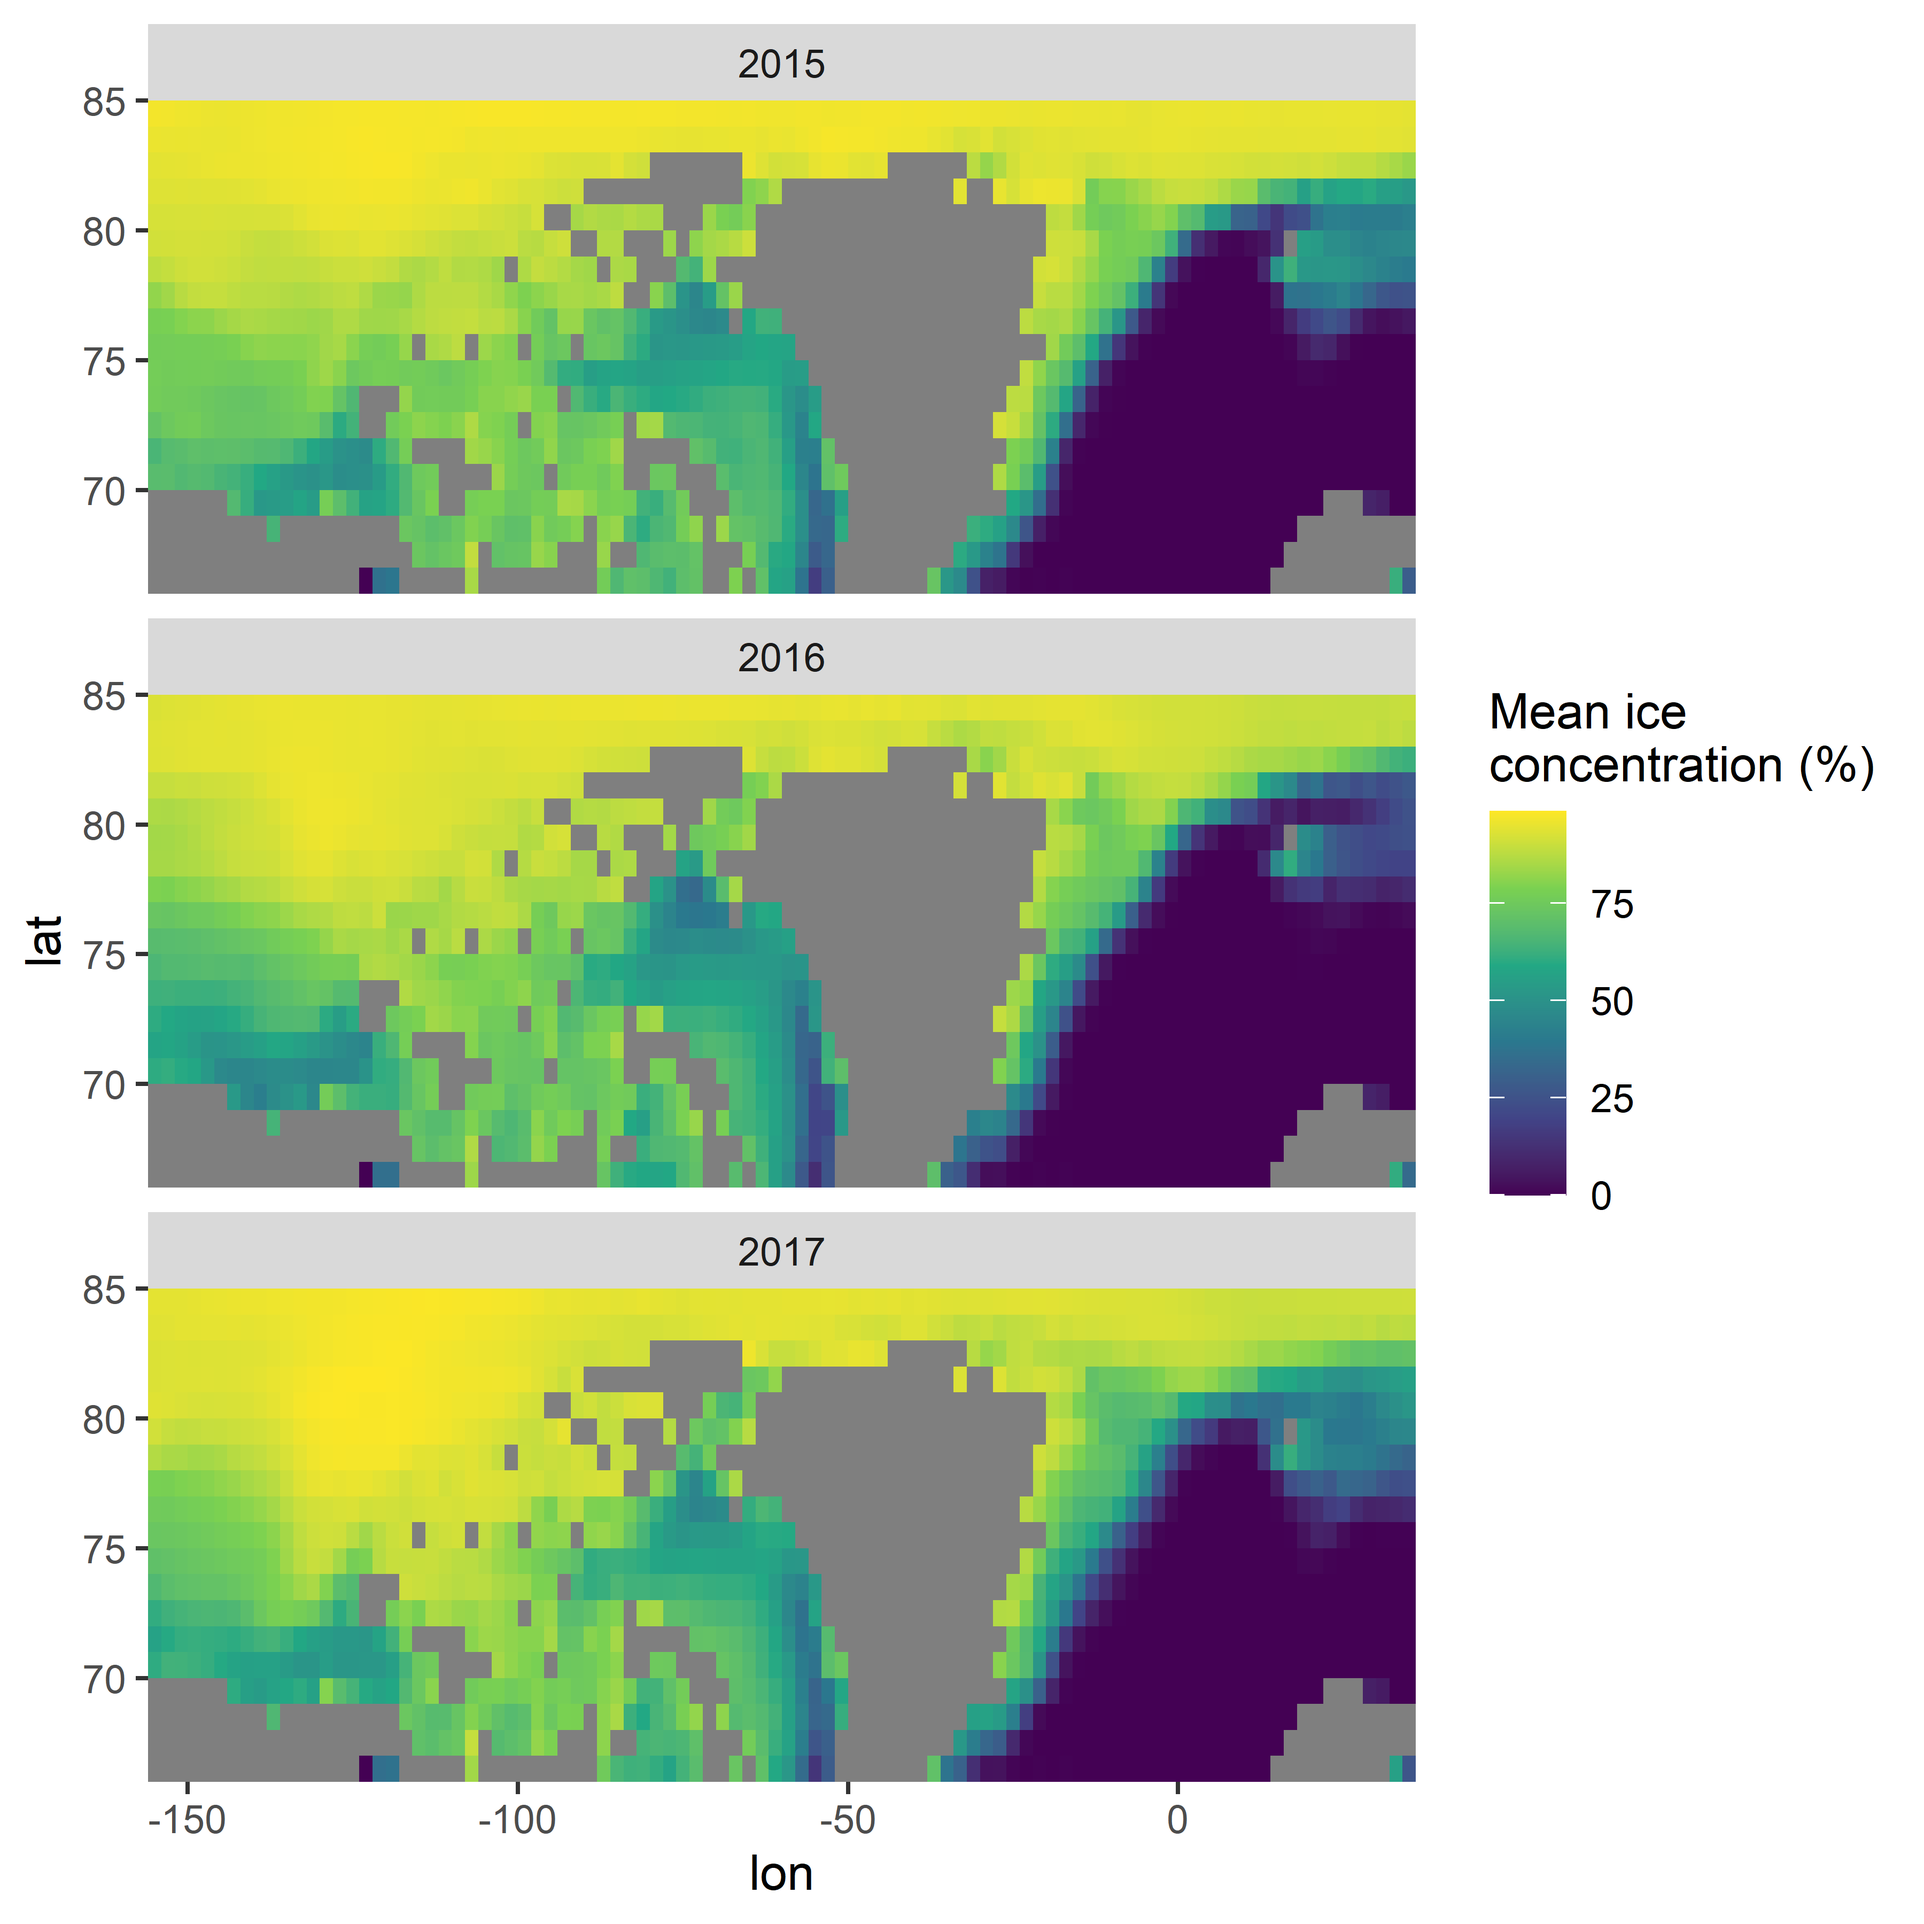
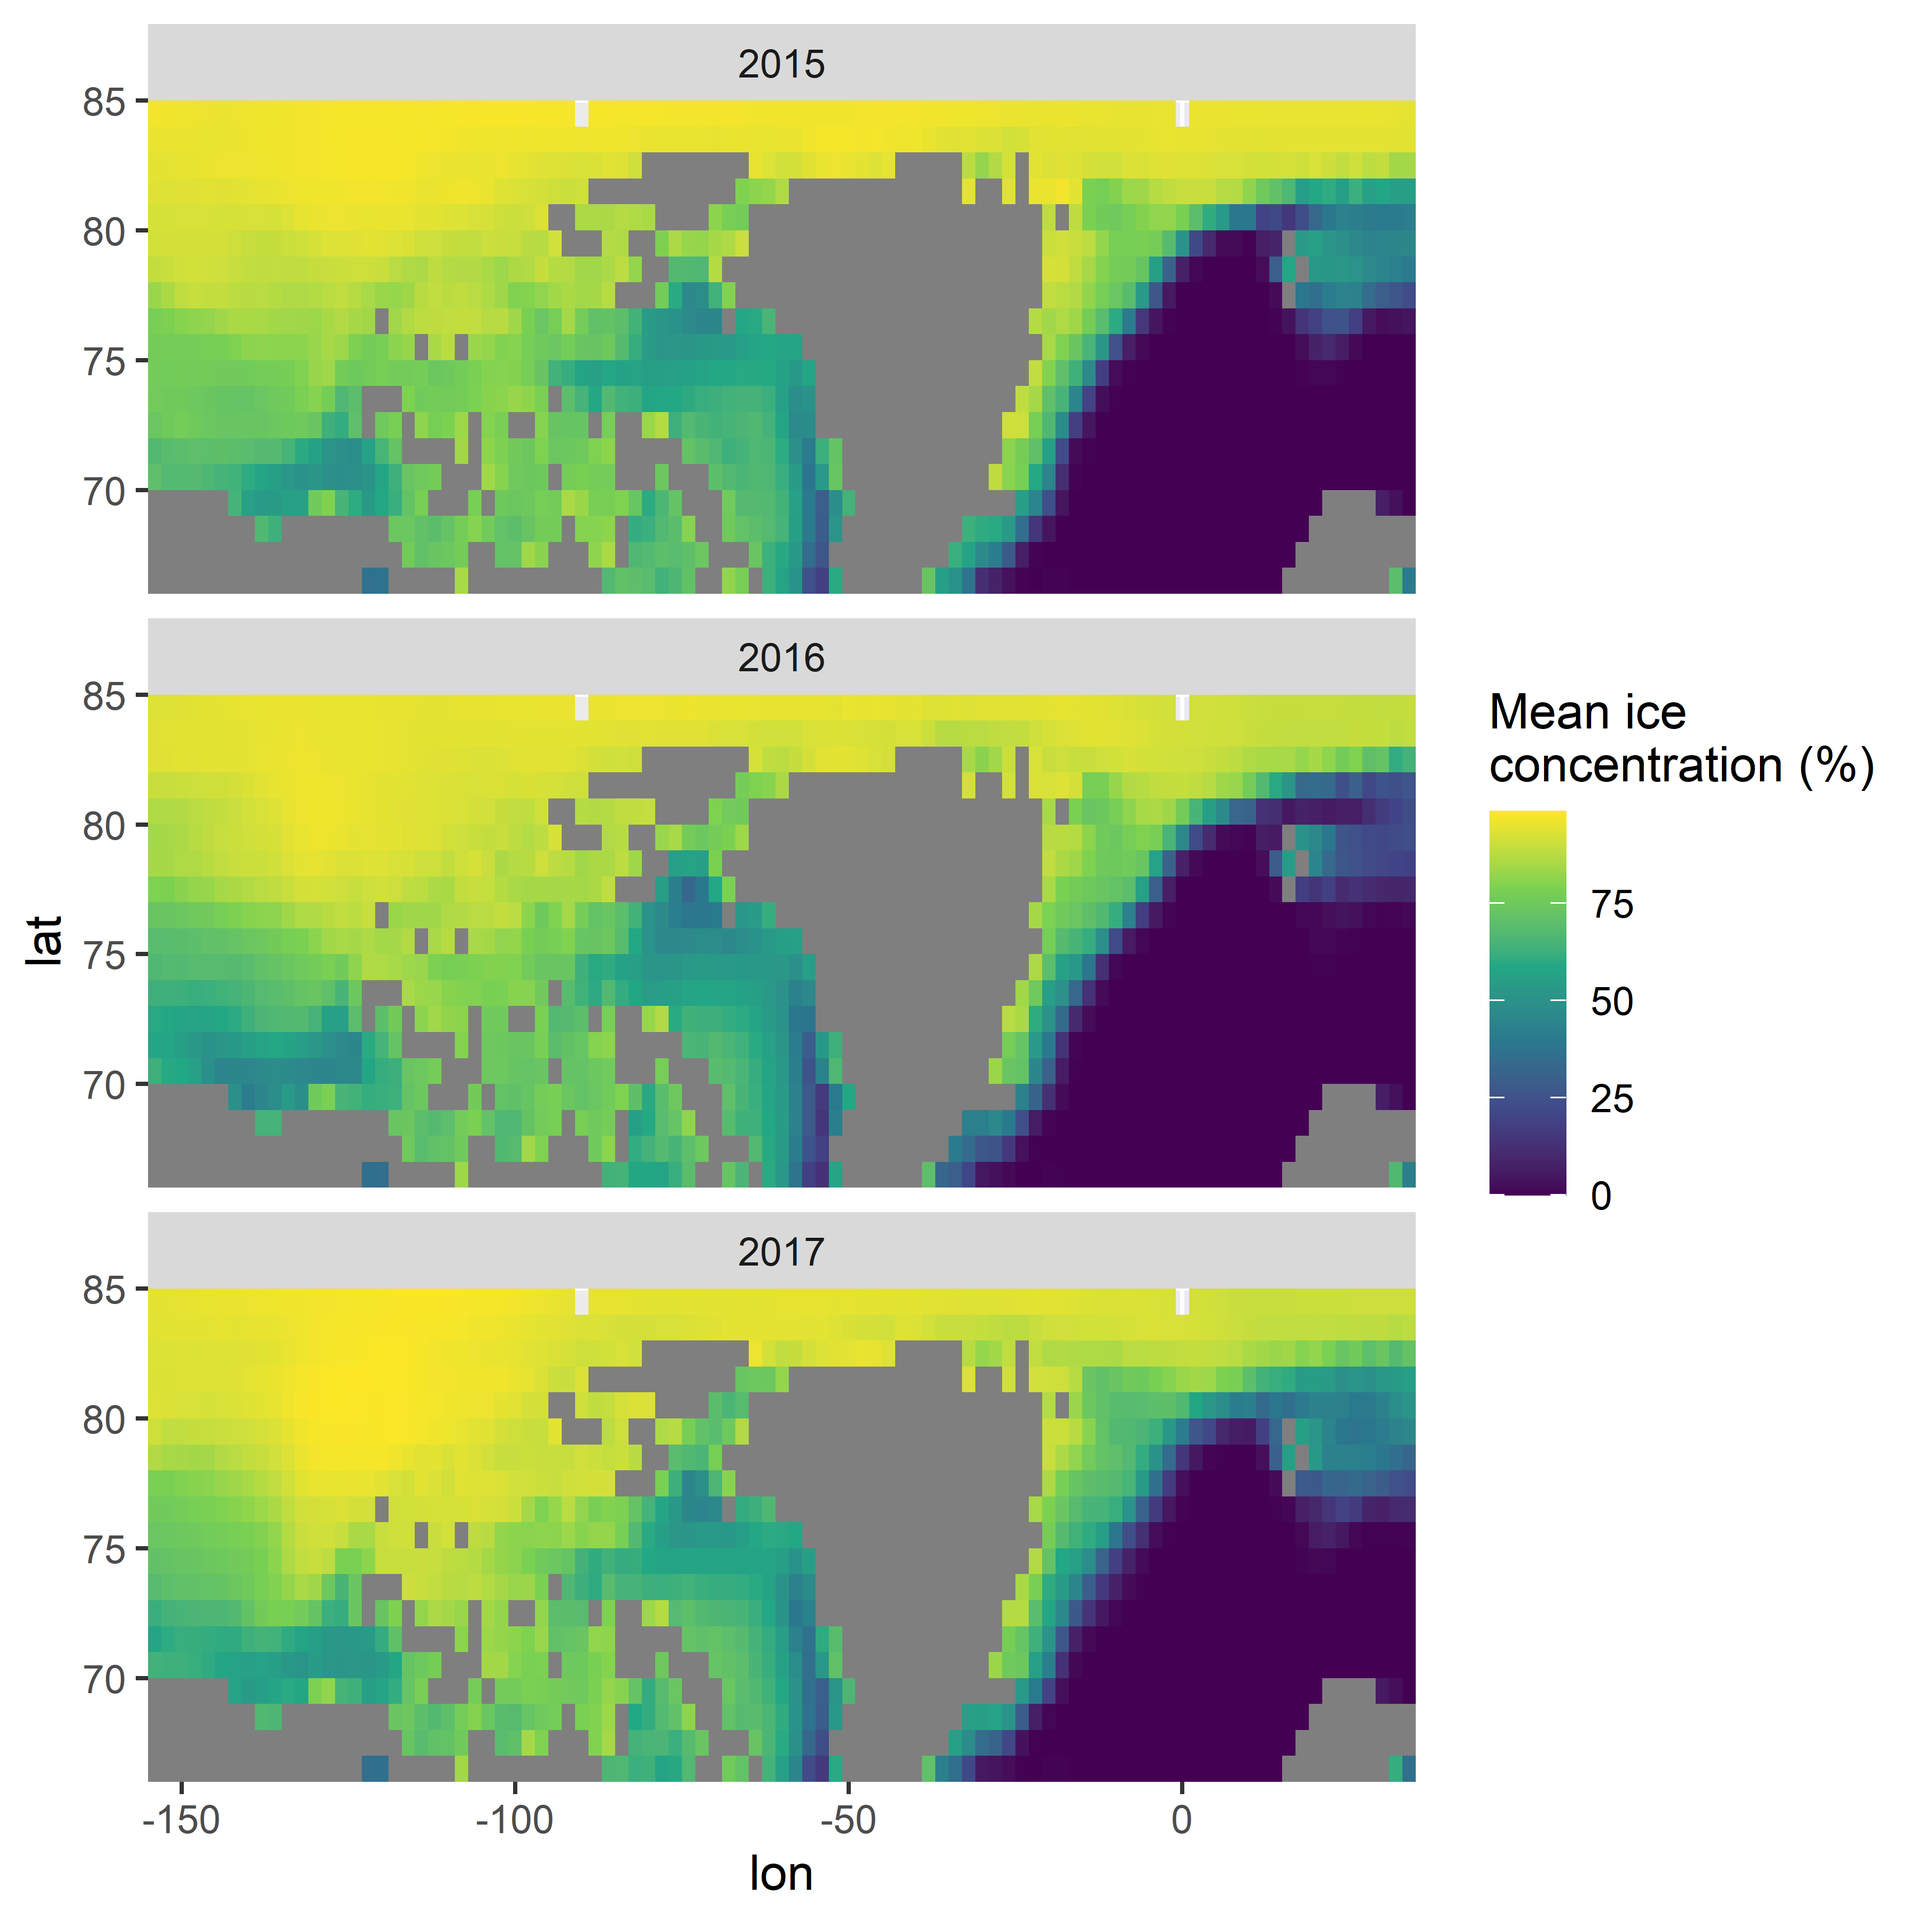
Corrected the extents of the raster to fit with rest of the data (acoustic and CTD).

diff --git a/PanArctic_DSL_remote_sensing.md b/PanArctic_DSL_remote_sensing.md
@@ -1,7 +1,7 @@
 PanArctic DSL - Remote sensing
 ================
 [Pierre Priou](mailto:pierre.priou@mi.mun.ca)
-2022/02/02 at 13:46
+2022/02/02 at 18:38
 
 # Package loading
 
@@ -28,8 +28,8 @@ anomalies (2 deg longitude \* 1 deg latitude).
 
 ``` r
 # Define projections: latlon (acoustic and CTD data), and laea (sea ice data)
-arctic_latlon <- raster(extent(-180,180,0,90), crs = "+init=epsg:4326", res = c(2, 1))
-arctic_laea <- raster(extent(-5400,5400,-5400,5400), crs = "+init=epsg:6931", res = c(25, 25))
+arctic_latlon <- raster(extent(-155, 35, 66, 85), crs = "+init=epsg:4326", res = c(2, 1))
+arctic_laea <- raster(extent(-5400, 5400, -5400, 5400), crs = "+init=epsg:6931", res = c(25, 25))
 # Date range of interest
 dates <- seq(ymd("2014-01-01"), ymd("2015-12-31"), 1)
 # Download data
@@ -60,8 +60,7 @@ for (d in dates) {
                         verbose = F,
                         path = "data/remote_sensing/sea_ice/tmp") %>%
     unzip(exdir = "data/remote_sensing/sea_ice/tmp") %>%  # Unzip file
-    tidync() # Read sea ice data
-  # tmp_raw <- tidync("data/remote_sensing/ice_conc_nh_ease2-250_icdr-v2p0_201703091200.nc")
+    tidync() 
   tmp_coord <- tmp_raw %>% # Extract latlon and laea coordinates
     activate("D2,D3") %>%
     hyper_tibble()
@@ -80,7 +79,6 @@ for (d in dates) {
                                            algorithm_se = tmp_seaice$algorithm_standard_error)) %>%
     rasterize(., arctic_latlon, fun = mean, na.rm = T) %>% # Rasterize data in latlon
     dropLayer(1) %>% # Remove ID layer
-    crop(., y = extent(-155, 35, 66, 85)) %>% # Crop raster to areas of interest
     rasterToPoints() %>% # Convert raster to data frame
     as.data.frame() %>%
     rename(lon = x, lat = y) %>% # Rename variables
@@ -95,8 +93,8 @@ rm(request, tmp_raw, tmp_coord, tmp_seaice, tmp) # Remove unused variables
 
 ``` r
 # Define projections: latlon (acoustic and CTD data), and laea (sea ice data)
-arctic_latlon <- raster(extent(-180,180,0,90), crs = "+init=epsg:4326", res = c(2, 1))
-arctic_laea <- raster(extent(-5400,5400,-5400,5400), crs = "+init=epsg:6931", res = c(25, 25))
+arctic_latlon <- raster(extent(-155, 35, 66, 85), crs = "+init=epsg:4326", res = c(2, 1))
+arctic_laea <- raster(extent(-5400, 5400, -5400, 5400), crs = "+init=epsg:6931", res = c(25, 25))
 # Date range of interest
 dates <- seq(ymd("2016-01-01"), ymd("2017-12-31"), 1)
 # Download data
@@ -128,7 +126,6 @@ for (d in dates) {
                         path = "data/remote_sensing/sea_ice/tmp") %>%
     unzip(exdir = "data/remote_sensing/sea_ice/tmp") %>%  # Unzip file
     tidync() # Read sea ice data
-  # tmp_raw <- tidync("data/remote_sensing/ice_conc_nh_ease2-250_icdr-v2p0_201703091200.nc")
   tmp_coord <- tmp_raw %>% # Extract latlon and laea coordinates
     activate("D2,D3") %>%
     hyper_tibble()
